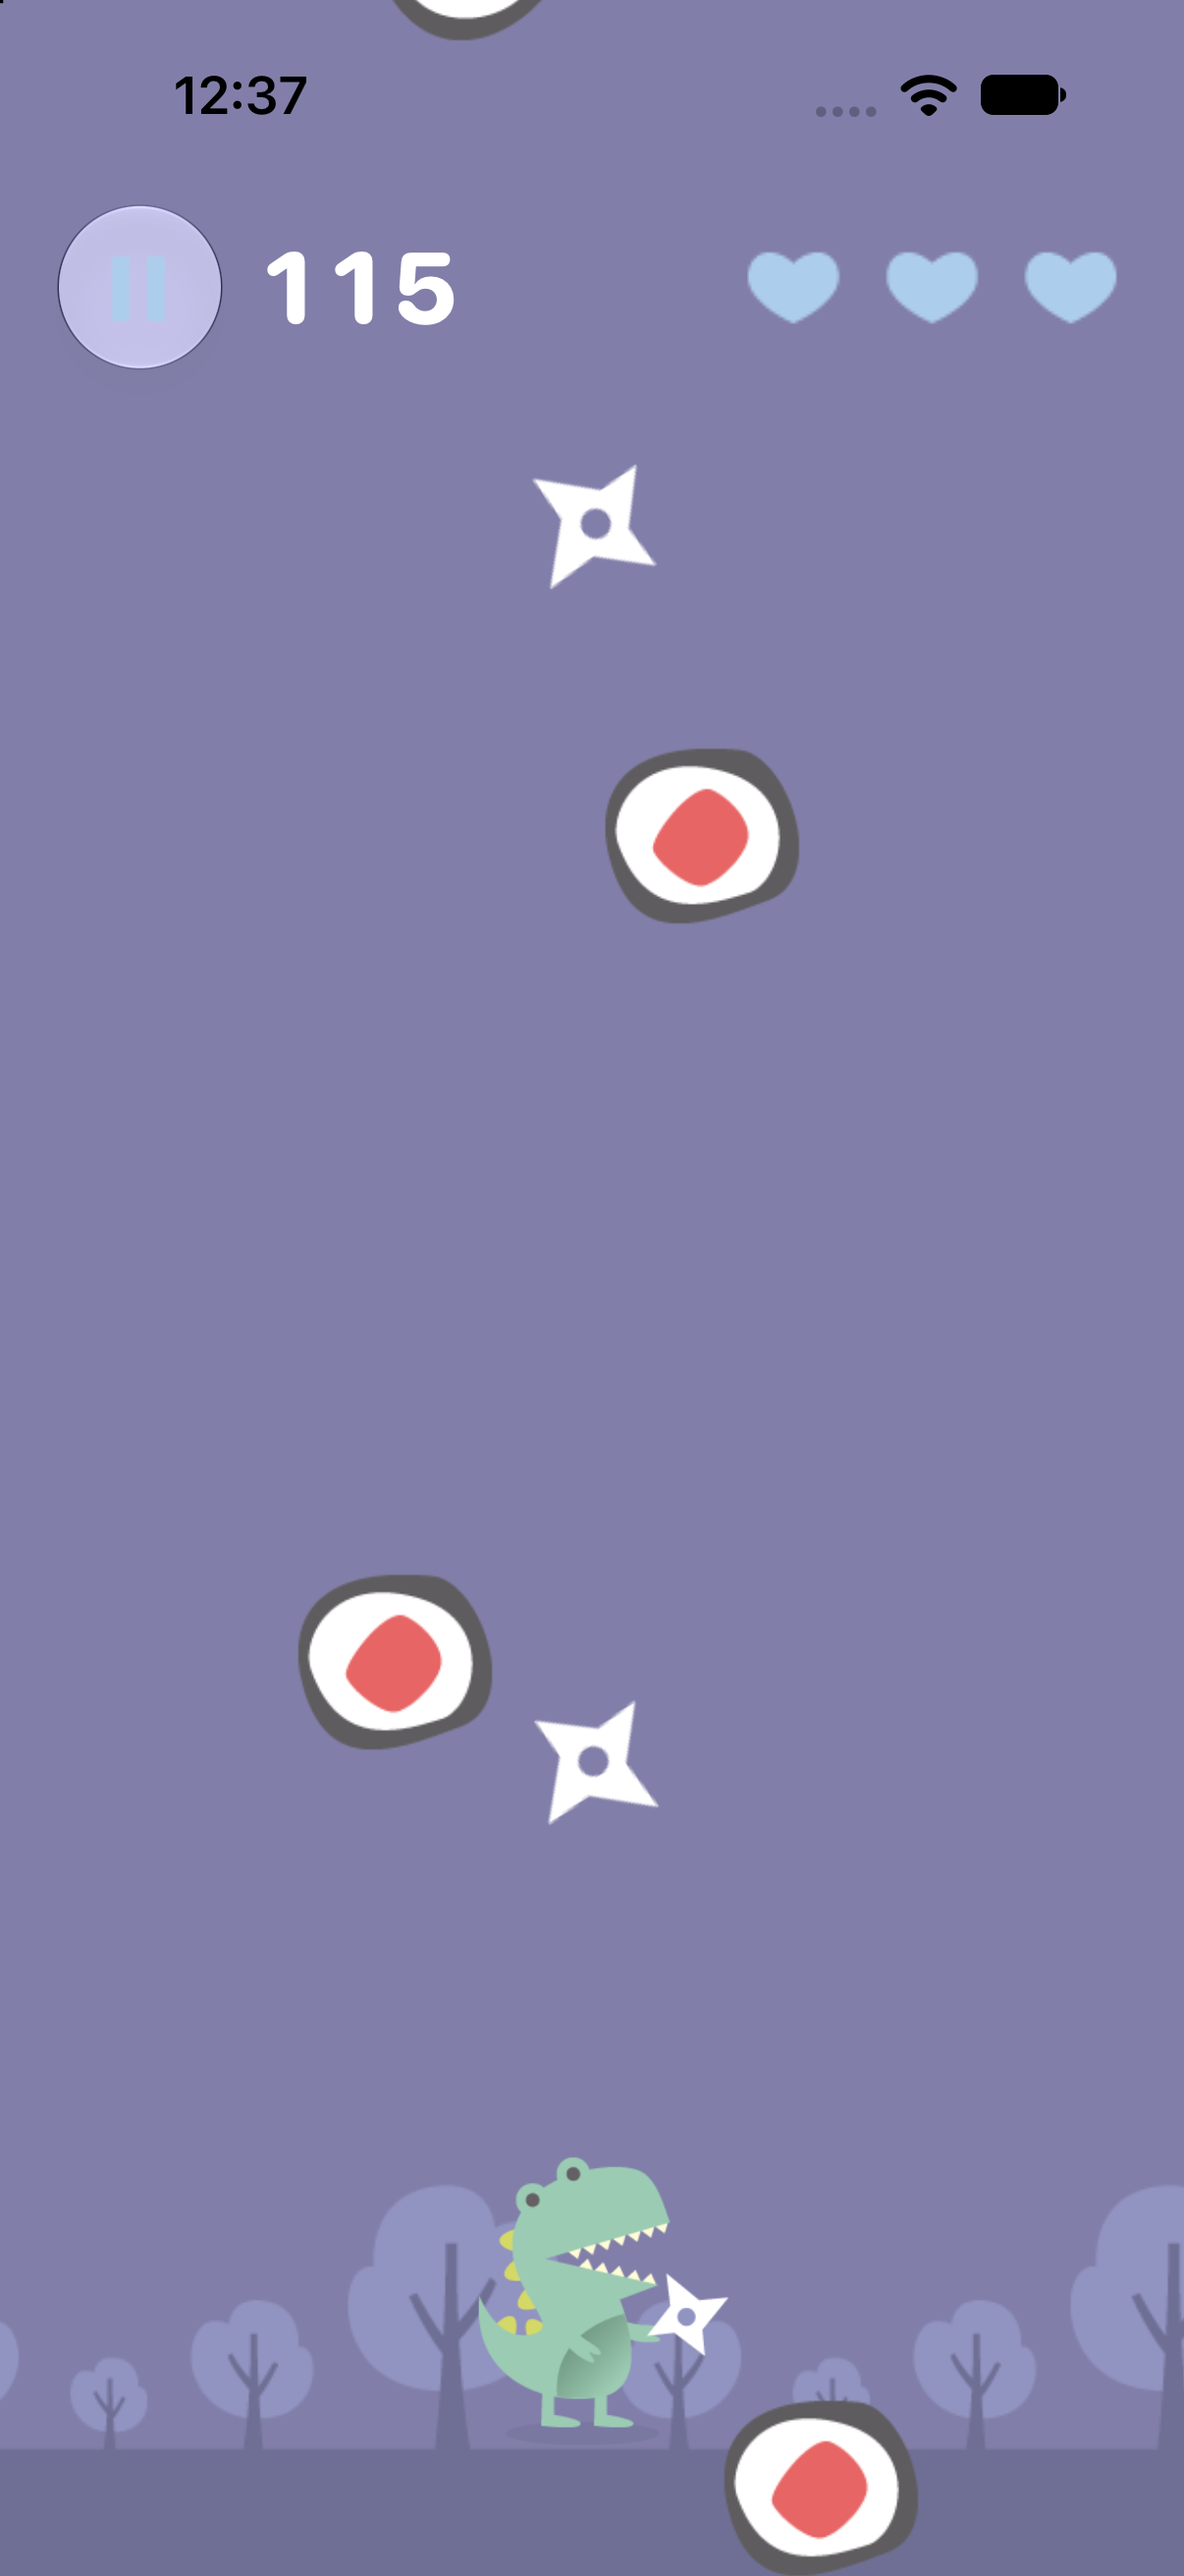
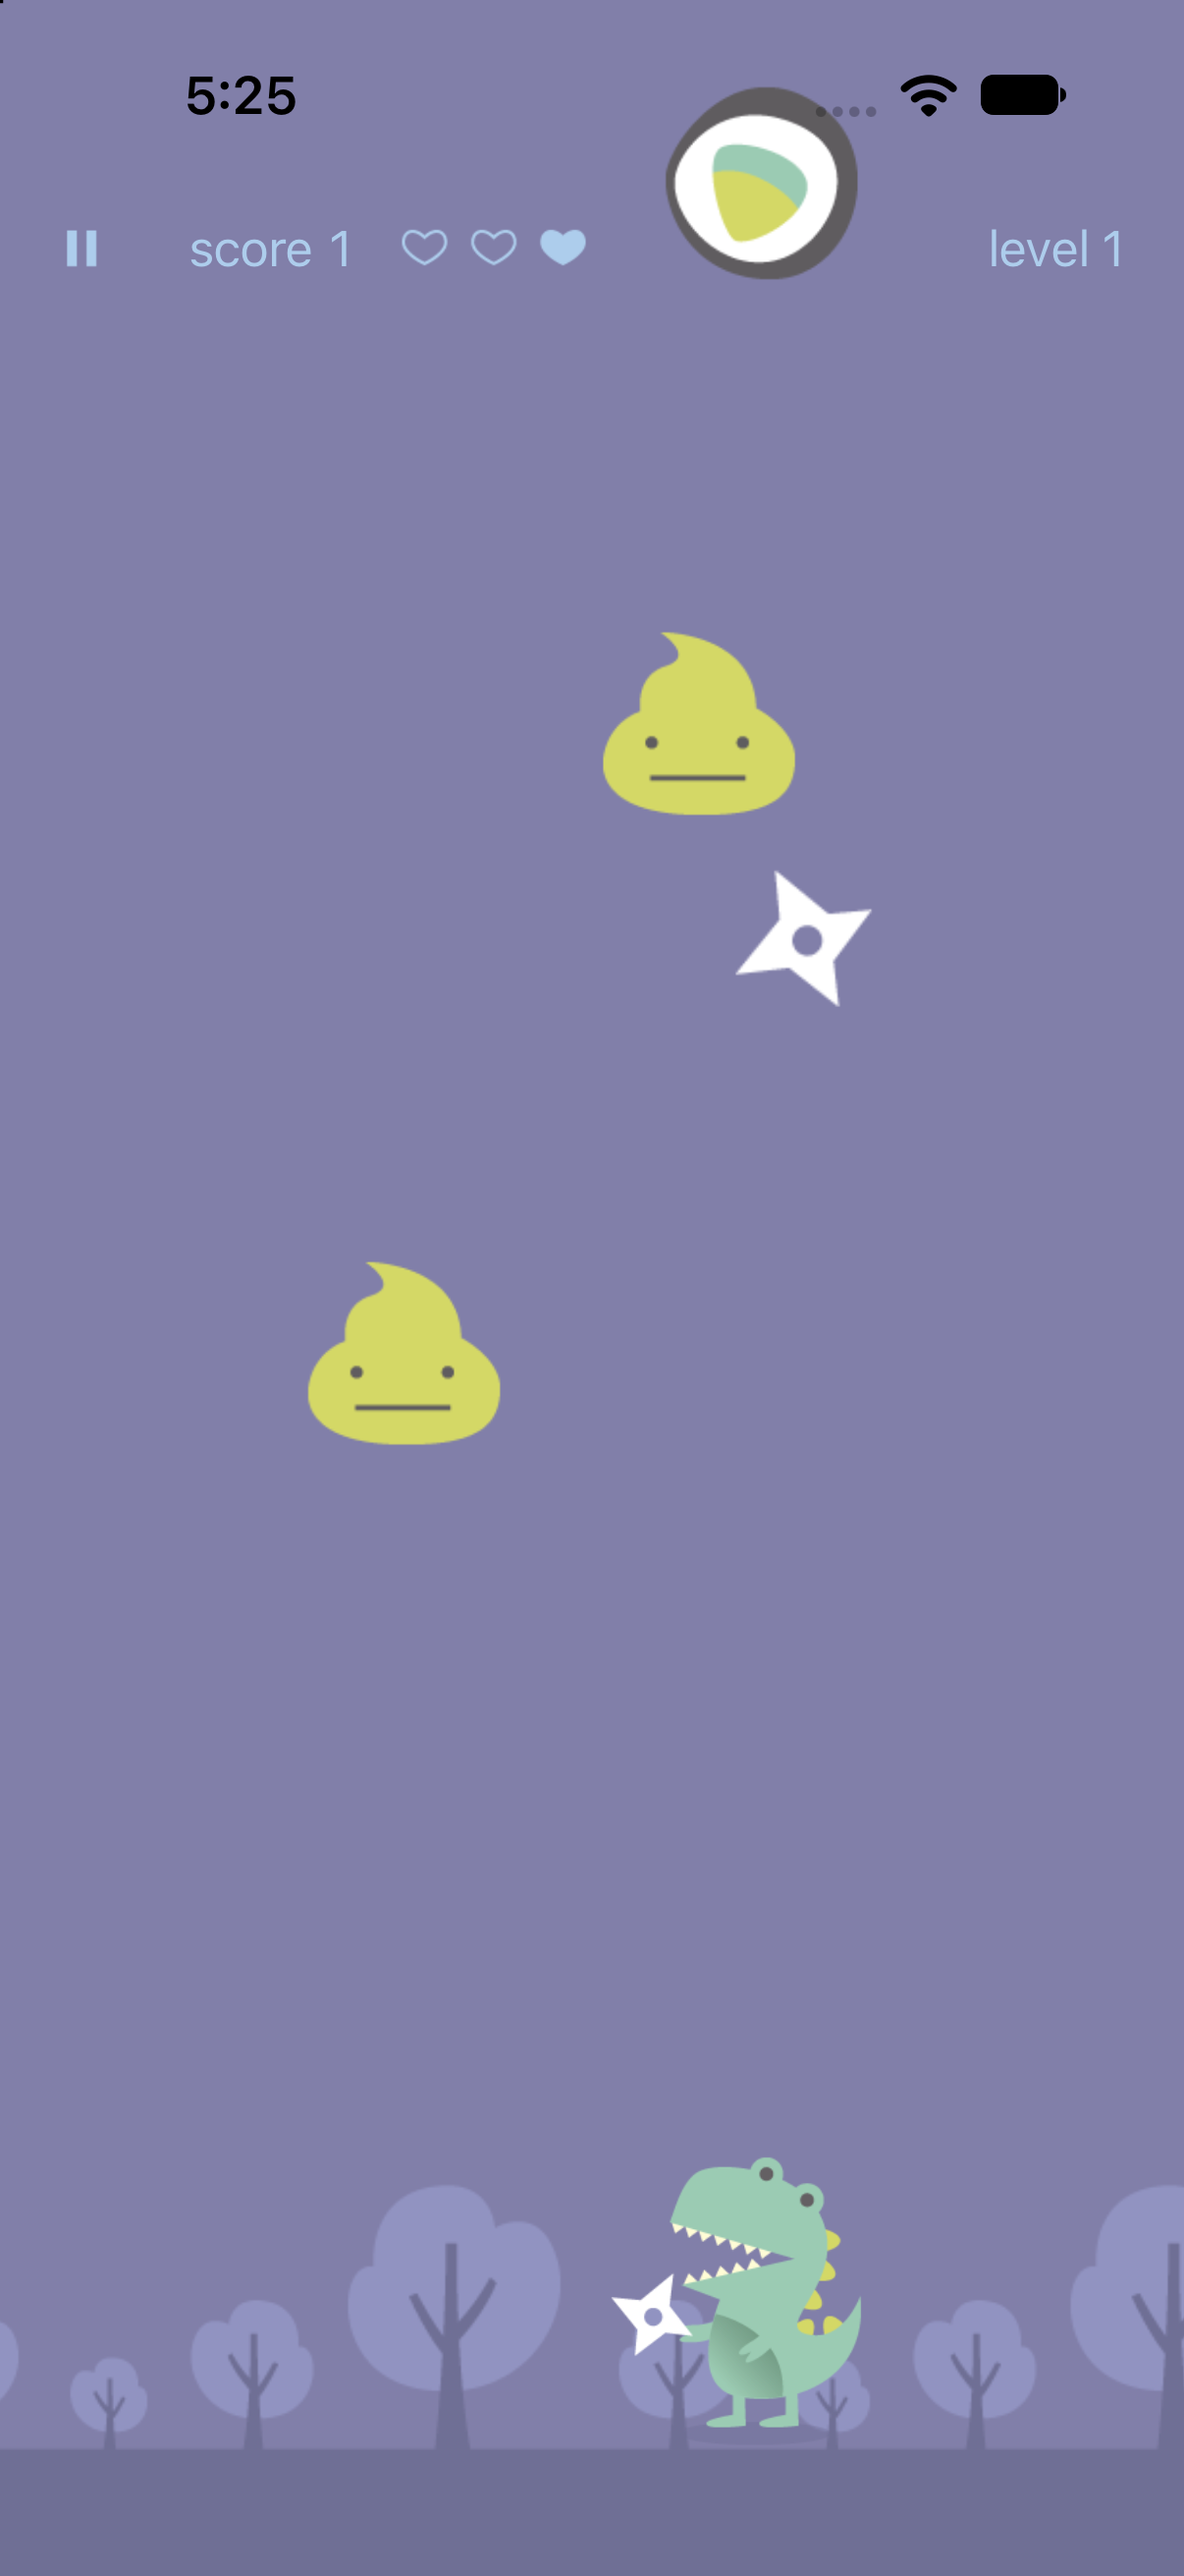
Remove high scores, update README for the new rules
- Game over shows only Continue, which returns to the start screen.
  Scores aren't saved, so the HighScores model, its tests and the
  Save button are removed.
- README: the 12 rules, an item table, the HUD and screens, the
  DinoPose and Palette files, the updated test list, and a new
  gameplay screenshot with the current HUD.

diff --git a/Dinoja/Views/GameOverOverlay.swift b/Dinoja/Views/GameOverOverlay.swift
@@ -6,18 +6,11 @@
 import SwiftUI
 
 /// Covers the game with the background art, hiding the dino and falling items,
-/// and shows the final score with Save (for a top-five score) and Continue.
+/// and shows the final score with a Continue button that returns to the start screen.
 struct GameOverOverlay: View {
     let score: Int
     let level: Int
-    /// Whether the score makes the high-score list.
-    let canSave: Bool
-    let onSave: (String) -> Void
     let onContinue: () -> Void
-
-    @State private var isNaming = false
-    @State private var name = ""
-    @State private var didSave = false
 
     var body: some View {
         ZStack {
@@ -36,42 +29,20 @@ struct GameOverOverlay: View {
                 VStack(spacing: 4) {
                     Text("score \(score)")
                         .font(.system(size: 34, weight: .regular))
-                    Text(didSave ? "saved to high scores" : "level \(level)")
+                    Text("level \(level)")
                         .font(.system(size: 17, weight: .regular))
                 }
                 .foregroundStyle(Palette.hudBlue)
 
-                VStack(spacing: 16) {
-                    if canSave && !didSave {
-                        Button {
-                            isNaming = true
-                        } label: {
-                            Image(Images.saveButton)
-                        }
-                        .accessibilityLabel("Save")
-                    }
-
-                    Button(action: onContinue) {
-                        Image(Images.continueButton)
-                    }
-                    .accessibilityLabel("Continue")
+                Button(action: onContinue) {
+                    Image(Images.continueButton)
                 }
+                .accessibilityLabel("Continue")
             }
-        }
-        .alert("New high score!", isPresented: $isNaming) {
-            TextField("Name", text: $name)
-                .textInputAutocapitalization(.never)
-            Button("Save") {
-                onSave(name)
-                didSave = true
-            }
-            Button("Cancel", role: .cancel) {}
-        } message: {
-            Text("Enter a name for the high score list.")
         }
     }
 }
 
 #Preview {
-    GameOverOverlay(score: 34, level: 2, canSave: true, onSave: { _ in }, onContinue: {})
+    GameOverOverlay(score: 34, level: 2) {}
 }

diff --git a/Dinoja/Views/GameView.swift b/Dinoja/Views/GameView.swift
@@ -8,7 +8,6 @@ import SpriteKit
 
 struct GameView: View {
     @Environment(\.dismiss) private var dismiss
-    @Environment(HighScores.self) private var highScores
     // Stored in @State so the scene is created once instead of on every view update.
     @State private var scene = GameScene.makeScene()
     /// Briefly shows "Level N" in the middle of the screen after a level-up.
@@ -37,11 +36,7 @@ struct GameView: View {
             case .paused:
                 PauseOverlay { model.resume() }
             case .gameOver:
-                GameOverOverlay(score: model.score,
-                                level: model.level,
-                                canSave: highScores.qualifies(model.score),
-                                onSave: { highScores.save(name: $0, score: model.score) },
-                                onContinue: { dismiss() })
+                GameOverOverlay(score: model.score, level: model.level) { dismiss() }
             }
         }
         .overlay(alignment: .top) {
@@ -70,5 +65,4 @@ struct GameView: View {
 
 #Preview {
     GameView()
-        .environment(HighScores())
 }

diff --git a/Dinoja/Constants/Images.swift b/Dinoja/Constants/Images.swift
@@ -36,7 +36,6 @@ enum Images {
     // HUD and overlays
     static let pauseButton = "bttn-pause"
     static let continueButton = "bttn-continue"
-    static let saveButton = "bttn-save"
     static let pauseText = "text-pause"
     static let gameOverText = "text-gameover"
 

diff --git a/Dinoja/DinojaApp.swift b/Dinoja/DinojaApp.swift
@@ -7,12 +7,9 @@ import SwiftUI
 
 @main
 struct DinojaApp: App {
-    @State private var highScores = HighScores()
-
     var body: some Scene {
         WindowGroup {
             LandingView()
-                .environment(highScores)
         }
     }
 }

diff --git a/README.md b/README.md
@@ -1,11 +1,11 @@
 # Dinoja
 
-A SpriteKit arcade game for iOS where a ninja dino catches falling sushi and throws ninja stars at falling wasabi.
+A SpriteKit arcade game for iOS. Swipe to move a ninja dino and tap to throw ninja stars at falling sushi, while dodging wasabi. The goal is the highest score you can get.
 
 <p align="center">
   <img src="docs/screenshots/start.png" alt="Dinoja start screen with the title and Start Game button" width="280">
   &nbsp;&nbsp;
-  <img src="docs/screenshots/gameplay.png" alt="Gameplay: the dino throws ninja stars while sushi falls, with the score and hearts at the top" width="280">
+  <img src="docs/screenshots/gameplay.png" alt="Gameplay: sushi, hearts and wasabi fall while the dino throws a ninja star, with the score, hearts and level along the top" width="280">
 </p>
 
 ## How to Play
@@ -23,7 +23,21 @@ A SpriteKit arcade game for iOS where a ninja dino catches falling sushi and thr
 11. Shooting a **red heart** gives **+1 life** (up to three).
 12. Shooting a **black heart** costs **1 life**.
 
-Tap the pause button at the top left to pause, and Continue to resume. After a hit, the dino blinks and wasabi passes through it for a moment.
+Along the top of the screen are the pause button, your score, your hearts and your level. A "level N" banner appears each time you level up.
+
+- **Pause:** tap the pause icon at the top left. Tap Continue to resume.
+- **After a wasabi hit:** the dino shows its hit pose and blinks, and wasabi passes through it for a moment.
+- **Game over:** shows your final score and level. Tap Continue to return to the start screen and play again. Scores aren't saved.
+
+### Items
+
+| Item | When shot |
+| --- | --- |
+| Ahi, salmon or avocado sushi | +1 point |
+| Combo sushi | +2 points |
+| Red heart | +1 life, up to 3 |
+| Black heart | −1 life |
+| Wasabi | Can't be shot; dodge it, or lose a life when it lands on the dino |
 
 ## Requirements
 
@@ -41,8 +55,13 @@ Tap the pause button at the top left to pause, and Continue to resume. After a h
 The game rules are plain Swift with no SpriteKit or SwiftUI, so they can be unit tested on their own.
 
 - **`GameRules`** holds every rule and tunable number in one place, with the functions that apply them (points, life changes, levels, fall speed, spawn odds, which items can be shot).
-- **Models** apply those rules: `GameModel` tracks score, lives, level and pausing; `NinjaStarFlight` computes the star's bouncing path; `ContactEvent` says what each collision means; `Playfield` gives the visible play area.
-- **`GameScene`** (SpriteKit) draws the dino, falling items and ninja stars. It reports catches and hits to `GameModel`.
+- **Models** apply those rules:
+  - `GameModel` tracks score, lives, level, the star in flight and pausing.
+  - `NinjaStarFlight` computes the star's bouncing path.
+  - `ContactEvent` says what each collision means.
+  - `DinoPose` picks the right dino art for each direction (standing, walking or hit).
+  - `Playfield` gives the visible play area.
+- **`GameScene`** (SpriteKit) handles swipes and taps, draws the dino, falling items and the ninja star, and reports shots and hits to `GameModel`.
 - **SwiftUI views** read `GameModel` to draw the score, hearts, pause button, pause screen and game over screen on top of the scene.
 
 ## Project Structure
@@ -55,16 +74,18 @@ The game rules are plain Swift with no SpriteKit or SwiftUI, so they can be unit
 | `Dinoja/Models/FallingItem.swift` | What can fall (sushi, wasabi, red and black hearts) and the image for each. |
 | `Dinoja/Models/NinjaStarFlight.swift` | A thrown star's angled path and its bounces off the side walls. |
 | `Dinoja/Models/ContactEvent.swift` | Physics categories and what each collision means (wasabi hit, target shot). |
+| `Dinoja/Models/DinoPose.swift` | Which dino image to show: standing, two walking frames, or hit, for each direction. |
 | `Dinoja/Models/Playfield.swift` | The on-screen area after aspect-fill cropping, and keeping objects on screen. |
 | `Dinoja/Scenes/GameScene.swift` | SpriteKit gameplay: swipe and tap controls, spawning, the ninja star and collisions. |
 | `Dinoja/Scenes/GameScene.sks` | Scene layout for the background and the dino. |
 | `Dinoja/Views/LandingView.swift` | Start screen with the title and Start Game button. |
 | `Dinoja/Views/GameView.swift` | Hosts the scene in a `SpriteView` and switches between the HUD and overlays. |
-| `Dinoja/Views/HUD.swift` | Score, level, Liquid Glass pause button and hearts. |
-| `Dinoja/Views/PauseOverlay.swift` | Pause screen: background art and the Continue button. |
-| `Dinoja/Views/GameOverOverlay.swift` | Game over screen with the final score and level. |
+| `Dinoja/Views/HUD.swift` | The top bar: pause button, score, hearts and level. |
+| `Dinoja/Views/PauseOverlay.swift` | Pause screen: the Pause title and Continue button over the background art. |
+| `Dinoja/Views/GameOverOverlay.swift` | Game over screen with the final score and level, and Continue back to the start screen. |
 | `Dinoja/Views/BackgroundImage.swift` | The background art, cropped to match the scene. |
 | `Dinoja/Constants/Images.swift` | Names of the image assets. |
+| `Dinoja/Constants/Palette.swift` | Colors sampled from the art (sky, ground, HUD blue). |
 | `DinojaTests/` | Unit and integration tests (Swift Testing). |
 | `DinojaUITests/` | UI tests (XCUITest). |
 
@@ -77,10 +98,11 @@ Run all tests in Xcode with ⌘U.
 | `GameRulesTests` | Unit | Each of the 12 rules, spawn odds (with a seeded random generator so results are repeatable), and custom rules. |
 | `GameModelTests` | Unit | Score, lives, levels, one star at a time, hearts, invincibility, pause and game over. |
 | `NinjaStarFlightTests` | Unit | 45° throws, wall bounces and leaving the screen. |
-| `FallingItemTests` | Unit | Image names for every item. |
+| `FallingItemTests` | Unit | Image names and splat colors for every item. |
+| `DinoPoseTests` | Unit | The right dino art for each direction and pose. |
 | `PlayfieldTests` | Unit | Visible area on tall and wide screens, clamping and spawn bounds. |
 | `ContactEventTests` | Unit | Collision rules and physics bit masks. |
-| `GameSceneIntegrationTests` | Integration | Loads the real scene from `GameScene.sks` with the game loop paused, then checks swiping, throwing, bouncing, shooting, hearts, wasabi and pausing against `GameModel`. |
+| `GameSceneIntegrationTests` | Integration | Loads the real scene from `GameScene.sks` with the game loop paused, then checks swiping, turning, the hit pose, throwing, bouncing, shooting, hearts, wasabi and pausing against `GameModel`. |
 | `DinojaUITests` | UI | Start screen, HUD, pause and Continue, and launch time. |
 
 To run only the unit and integration tests from the command line (replace the simulator name with one you have installed):
